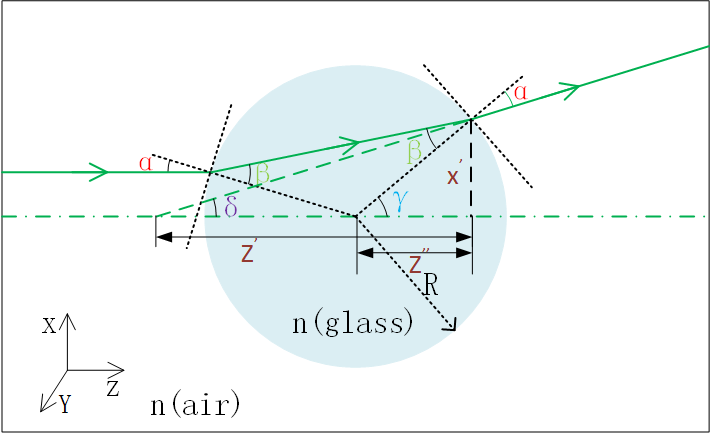
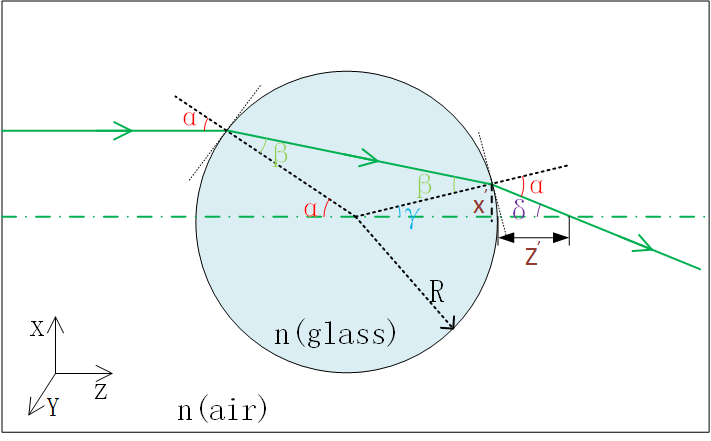
Update my model detail file.

diff --git a/7-Code/3-Code Model/reference/codeAndFigure/圆柱形玻璃/Schlieren.m b/7-Code/3-Code Model/reference/codeAndFigure/圆柱形玻璃/Schlieren.m
@@ -61,7 +61,7 @@ nair = 1.0002967;
 dglass = 1.6e-3;
 
 r = dglass / 2;
-% fglass = - (r * nglass) / ( 2 * (nair - nglass));
+% fglass = (r * nglass) / ( 2 * ( nglass - nair ));
 fglass = 62.5e-3;
 k = 2 * pi / lambda;
 

diff --git a/7-Code/3-Code Model/ModelDetails.md b/7-Code/3-Code Model/ModelDetails.md
@@ -1227,12 +1227,17 @@ $$
 ### Cylindrical glass focal length（圆柱形玻璃焦距）
 
 > 将圆柱形玻璃等效为近轴近似的透镜，求解其焦距表达式。
+>
+> 为了补充说明，推导了等离子体圆柱形的焦距，参见：[圆柱形等离子体焦距](#Cylindrical plasma focal length（圆柱形等离子体焦距）)。
 
 仿真的时候，需要设置**圆柱形玻璃的焦距**，此时可以重新将光线穿过圆柱形玻璃的情况绘制如下图所示：
 
 <img src="ModelDetails.assets/圆柱形玻璃光线传输示意图.png" alt="圆柱形玻璃光线传输示意图" style="zoom:80%;" />
 
 <center><font color="red">图28 圆柱形玻璃光线传输示意图</font><cebnter>
+>视觉角度：俯视图。
+>
+>图示：z轴正方向为光线传播方向，x轴正方向为世界坐标系的水平方向，y轴为世界坐标系的垂直方向。
 
 由于，我们假设的被测对象是圆柱形玻璃，那么其具有对称和均匀折射率等特性，圆柱可以等效为是近轴近似的透镜。
 
@@ -1244,7 +1249,7 @@ $$
 $$
 \alpha \cdot n(air) = \beta \cdot n(glass)
 $$
-其中，$\alpha$为与光轴平行的光线入射圆柱形玻璃的入射角，$\beta$为对应的出射角，$n(air)$ 环境中空气的折射率，$n(glass)$ 为圆柱形玻璃的折射率，其中 $n(air) \approx 1 > n(glass)$ 。
+其中，$\alpha$为与光轴平行的光线入射圆柱形玻璃的入射角，$\beta$为对应的出射角，$n(air)$ 环境中空气的折射率，$n(glass)$ 为圆柱形玻璃的折射率，其中 $n(air) \approx 1 < n(glass)$ 。
 
 从[格拉斯通-戴尔公式](#Gladstone-Dale Formula（格拉斯通-戴尔公式）) 中，可以知道标准状态下空气对可见光的折射率$n(air)$ 约为$1.0002967$ 。
 
@@ -1264,19 +1269,17 @@ $$
 
 根据三角形角度关系，可得出射玻璃柱的光线与主光轴的夹角 $\delta$ 为：
 $$
-\delta= 180^\circ - \alpha - (180^\circ - \gamma)= \gamma - \alpha= 2 \beta - 2 \alpha
+\delta= 180^\circ - \gamma - (180^\circ - \alpha)=  \alpha - \gamma = 2 \alpha - 2 \beta
 $$
 综上，可以得到 $\mathsf{Z}'$ 为：
 $$
-\mathsf{Z}' = \frac{\mathsf{X}'}{tan(\delta)}= \frac{\mathsf{R} \cdot \gamma}{\delta}= \frac{\mathsf{R} \cdot (2 \beta - \alpha)}{2 \beta - 2 \alpha}
-$$
-基于三角形关系，可以得到$\mathsf{Z}''$ 为：
-$$
-\mathsf{Z}''= \sqrt{\mathsf{R}^2 - (\mathsf{X}')^2}= \sqrt{\mathsf{R}^2 - ( \mathsf{R} \cdot \gamma)^2}= \mathsf{R} \sqrt{1 - \gamma^2}= \mathsf{R} \sqrt{1 - (2 \beta - \alpha)^2}
+\mathsf{Z}' = \frac{\mathsf{X}'}{tan(\delta)}= \frac{\mathsf{R} \cdot \gamma}{\delta}= \frac{\mathsf{R} \cdot (2 \beta - \alpha)}{2 \alpha - 2 \beta}
 $$
 将整个玻璃柱看成是一个透镜，可以得到其焦距 $f$ 相对于中心点为:
 $$
-f = \mathsf{Z}' - \mathsf{Z}''= \frac{\mathsf{R} \cdot (2 \beta - \alpha)}{2 \beta - 2 \alpha}  - \mathsf{R} \sqrt{1 - (2 \beta - \alpha)^2}
+f = \mathsf{Z}' + R = \frac{\mathsf{R} \cdot (2 \beta - \alpha)}{2 \alpha - 2 \beta}  - R
+\\
+= \frac{\mathsf{R} \cdot \alpha}{2 \alpha - 2 \beta}
 $$
 已知入射角$\alpha$，出射角$\beta$，空气的折射率$n(air)$ ，圆柱形玻璃的折射率$n(glass)$ 的关系式：
 $$
@@ -1288,7 +1291,87 @@ $$
 $$
 将其带入焦距 $f$ 的公式，得到：
 $$
-f = \frac{\mathsf{R} \cdot (2 n(air) - n(glass))}{2 n(air) - 2 n(glass)}  - \mathsf{R} \sqrt{1 - (2 \beta - \alpha)^2}
+f = \frac{\mathsf{R} \cdot  n(glass)}{2 n(glass) - 2 n(air)}
+$$
+其中，上式的变量空气的折射率$n(air)$ ，圆柱形玻璃的折射率$n(glass)$ ，圆柱形玻璃的半径R，都可以获得。
+
+所以，我们可以知道玻璃圆柱的焦距只取决于玻璃圆柱的折射率和直径。并且此时的**焦距是正数**，属于一个聚焦透镜，即凸透镜。
+
+由于玻璃圆柱并不是一个完美的透镜，实际实验中会观察到大量的**球面相差**。
+
+
+
+
+
+### Cylindrical plasma focal length（圆柱形等离子体焦距）
+
+> 本块内容做圆柱形玻璃焦距内容补充，主要想表达当光线穿过区域的折射率小于空气折射率的时候，对应的焦距表达方式。
+
+基于圆柱形等离子体的光线传播图进行相应的推导，如下图所示：
+
+<img src="ModelDetails.assets/圆柱形等离子体光线传输示意图.png" alt="圆柱形等离子体光线传输示意图" style="zoom:80%;" />
+
+<center><font color="red">图28 圆柱形等离子体光线传输示意图</font><cebnter>
+
+>视觉角度：俯视图。
+>
+>图示：z轴正方向为光线传播方向，x轴正方向为世界坐标系的水平方向，y轴为世界坐标系的垂直方向。
+
+由于，我们假设的被测对象是圆柱形等离子体，那么其具有对称和均匀折射率等特性，圆柱可以等效为是近轴近似的透镜。
+
+假设光线进入圆柱形等离子体的入射角度$\alpha$和出射角度$\beta$很小。根据折射定律：折射介质折射率与折射角正弦之积等于入射介质折射率与入射角正弦之积，得到:
+$$
+sin(\alpha) \cdot n(air) = sin(\beta) \cdot n(plasma)
+$$
+也即：
+$$
+\alpha \cdot n(air) = \beta \cdot n(plasma)
+$$
+其中，$\alpha$为与光轴平行的光线入射圆柱形等离子体的入射角，$\beta$为对应的出射角，$n(air)$ 环境中空气的折射率，$n(plasma)$ 为圆柱形等离子体的折射率，其中 $n(air) \approx 1 > n(plasma)$ 。
+
+从[格拉斯通-戴尔公式](#Gladstone-Dale Formula（格拉斯通-戴尔公式）) 中，可以知道标准状态下空气对可见光的折射率$n(air)$ 约为$1.0002967$ 。
+
+根据三角形角度关系，可得角度 $\gamma$ 为：
+$$
+\gamma = 180^\circ - \alpha - (180^\circ - 2 \beta)= 2 \beta - \alpha
+$$
+出射圆柱形等离子体的光线与玻璃柱的交点，距离主光轴的高度 $\mathsf{X}'$ 可以表示：
+$$
+\mathsf{X}' = \mathsf{R} \cdot tan(\gamma )
+$$
+当角度 $\gamma$ 很小的时候，高度 $\mathsf{X}'$ 为：
+$$
+\mathsf{X}' = \mathsf{R} \cdot \gamma
+$$
+其中，R为圆柱形等离子体的半径。
+
+根据三角形角度关系，可得出射等离子体柱的光线与主光轴的夹角 $\delta$ 为：
+$$
+\delta= 180^\circ - \alpha - (180^\circ - \gamma)= \gamma - \alpha= 2 \beta - 2 \alpha
+$$
+综上，可以得到 $\mathsf{Z}'$ 为：
+$$
+\mathsf{Z}' = \frac{\mathsf{X}'}{tan(\delta)}= \frac{\mathsf{R} \cdot \gamma}{\delta}= \frac{\mathsf{R} \cdot (2 \beta - \alpha)}{2 \beta - 2 \alpha}
+$$
+基于三角形关系，可以得到$\mathsf{Z}''$ 为：
+$$
+\mathsf{Z}''= \sqrt{\mathsf{R}^2 - (\mathsf{X}')^2}= \sqrt{\mathsf{R}^2 - ( \mathsf{R} \cdot \gamma)^2}= \mathsf{R} \sqrt{1 - \gamma^2}= \mathsf{R} \sqrt{1 - (2 \beta - \alpha)^2}
+$$
+将整个等离子体柱看成是一个透镜，可以得到其焦距 $f$ 相对于中心点为:
+$$
+f = \mathsf{Z}' - \mathsf{Z}''= \frac{\mathsf{R} \cdot (2 \beta - \alpha)}{2 \beta - 2 \alpha}  - \mathsf{R} \sqrt{1 - (2 \beta - \alpha)^2}
+$$
+已知入射角$\alpha$，出射角$\beta$，空气的折射率$n(air)$ ，圆柱形等离子体的折射率$n(plasma)$ 的关系式：
+$$
+\alpha \cdot n(air) = \beta \cdot n(plasma)
+$$
+写成分式形式：
+$$
+\frac{\alpha}{\beta}=\frac{n(plasma)}{ n(air)}
+$$
+将其带入焦距 $f$ 的公式，得到：
+$$
+f = \frac{\mathsf{R} \cdot (2 n(air) - n(plasma))}{2 n(air) - 2 n(plasma)}  - \mathsf{R} \sqrt{1 - (2 \beta - \alpha)^2}
 $$
 由[泰勒展开式线性近似理论](#Taylor's expansion linear approximation theory（泰勒展开式线性近似理论）)对应的**函数线性近似表达式**为：
 $$
@@ -1311,19 +1394,17 @@ $$
 
 所以，焦距 $f$ 的公式可以化简为：
 $$
-f = \frac{\mathsf{R} \cdot (2 n(air) - n(glass))}{2 n(air) - 2 n(glass)}  - \mathsf{R}
-\\ 
-= \frac{\mathsf{R}  n(glass)}{2 n(air) - 2 n(glass)}
-\\
-= \frac{\mathsf{R}  n(glass)}{2 (n(air) - n(glass))}
+f = \frac{\mathsf{R} \cdot (2 n(air) - n(plasma))}{2 n(air) - 2 n(plasma)}  - \mathsf{R}\\ = \frac{\mathsf{R}  n(plasma)}{2 n(air) - 2 n(plasma)}\\= \frac{\mathsf{R}  n(plasma)}{2 (n(air) - n(plasma))}
 $$
-其中，上式的变量空气的折射率$n(air)$ ，圆柱形玻璃的折射率$n(glass)$ ，圆柱形玻璃的半径R，都可以获得。
+其中，上式的变量空气的折射率$n(air)$ ，圆柱形等离子体的折射率$n(plasma)$ ，圆柱形等离子体的半径R，都可以获得。
 
-所以，我们可以知道玻璃圆柱的焦距只取决于玻璃圆柱的折射率和直径。并且此时的**焦距是负数**，属于一个发散透镜，即凹透镜。
+所以，我们可以知道等离子体圆柱的焦距只取决于等离子体圆柱的折射率和直径。并且此时的**焦距是负数**，属于一个发散透镜，即凹透镜。
 
 注：在计算的时候我们需要保证计算出来的焦距是一个正数，方便进行仿真计算。
 
-由于玻璃圆柱并不是一个完美的透镜，实际实验中会观察到大量的**球面相差**。
+由于等离子体圆柱并不是一个完美的透镜，实际实验中会观察到大量的**球面相差**。
+
+
 
 
 
@@ -1335,7 +1416,7 @@ $$
 
 基于 [圆柱形玻璃焦距](#Cylindrical glass focal length（圆柱形玻璃焦距）) ，得到**圆柱形玻璃的焦距公式**为：
 $$
-f = \frac{\mathsf{R}  n(glass)}{2 (n(air) - n(glass))}
+f = \frac{\mathsf{R} \cdot  n(glass)}{2 n(glass) - 2 n(air)}
 $$
 其中，$n(air)$ 环境中空气的折射率，$n(glass)$ 为圆柱形玻璃的折射率，R是圆柱形玻璃的半径。
 
@@ -1343,13 +1424,69 @@ $$
 $$
 f = 1.2 mm
 $$
-其圆柱形玻璃的半径与[圆柱形等离子体](#Plasma Cylinder（圆柱形等离子体）) 的半径相等，但是圆柱形玻璃的焦距比圆柱形等离子体的焦距小很多。
+其圆柱形玻璃的半径与[圆柱形等离子体](#Plasma Cylinder（圆柱形等离子体）) 的半径相等，但是圆柱形玻璃的焦距比圆柱形等离子体的焦距小很多，并不适合作为我们的实验目标。
 
 所以我们可以使用一个厚度远远小于其外径的玻璃管作为测试对象，得到示意图如下所示：
 
-
+<img src="ModelDetails.assets/毛细血管形玻璃管光线传播示意图.png" alt="毛细血管形玻璃管光线传播示意图" style="zoom:80%;" />
 
 <center><font color="red">图28 毛细血管形玻璃管光线传播示意图</font><cebnter>
+
+>视觉角度：俯视图。
+>
+>图示：z轴正方向为光线传播方向，x轴正方向为世界坐标系的水平方向，y轴为世界坐标系的垂直方向。
+
+上图显示的是玻璃管中光线的示意图，其中玻璃管的内外直径之间满足下面的关系：
+$$
+r_{big} \gg r_{big} - r_{small}
+$$
+当光线经过玻璃管之后，光线拥有一个发散的角度，从图上可以看到角度的关系有：
+$$
+\beta < a'
+$$
+其中， $\beta$ 是光线入射到玻璃管之后的折射角， $a'$ 是玻璃管壁中的光线入射进玻璃管中的入射角度。
+
+所以，我们可以得到光线在玻璃管内传播并不是平行光，而是一个发散的，在最终出射玻璃管之后，一定是一个发散的，那么我们的玻璃管就等效为一个凹透镜，最终的光线会散焦。
+
+由于直接使用光线的几何方式计算，只会越计算越复杂，类似于相机的发散镜头设计，我们将整个玻璃管分成为两半，这两部分由两个玻璃透镜组成，其中两个透镜之间的距离假设为 $s = 2 * r_{small}$ ，从[透镜制造方程](#Lensmaker's Equation（透镜制造方程）) 中，我们可以得到分成两部分透镜的焦距表达式：
+$$
+\frac{1}{f}
+\approx 
+(n-1)[\frac{1}{R_1} - \frac{1}{R_2} ]
+$$
+可以将两个透镜组成一个**相对较薄的光学系统**，表达式如下所示：
+$$
+\frac{1}{f_{res}} =
+\frac{1}{f_1} + \frac{1}{f_2}
+- \frac{f_1 + f_2 - s}{f_1 f_2}
+$$
+其中， $f_{res}$ 表示光学系统的焦距，$f_1$ 表示左半部分焦距，$f_2$ 表示右半部分焦距。
+
+其中，左半部分和右半部分的焦距表示为：
+$$
+\frac{1}{f_1}
+=
+(n-1)[\frac{1}{r_{big}} - \frac{1}{r_{small}} ]
+
+\\
+
+\frac{1}{f_2}
+=
+-(n-1)[\frac{1}{r_{big}} - \frac{1}{r_{small}} ]
+$$
+所以，可以得到 $f_{res}$ 为：
+$$
+f_{res} 
+= \frac{f_1^2}{2 * f_1 - s}
+= \frac{f_1^2}{2 * f_1 - 2 * r_{small}}
+$$
+此时的焦距比圆柱形玻璃的焦距长很多，更适合作为实验的目标。
+
+
+
+
+
+
 
 
 
@@ -2604,7 +2741,7 @@ z = 100e-3;  % 透镜的焦距（假设的是相平面刚好在焦平面上）
 
 基于 [圆柱形玻璃焦距](#Cylindrical glass focal length（圆柱形玻璃焦距）) ，得到**圆柱形玻璃的焦距公式**为：
 $$
-f = \frac{\mathsf{R}  n(glass)}{2 (n(air) - n(glass))}
+f = \frac{\mathsf{R} \cdot  n(glass)}{2 n(glass) - 2 n(air)}
 $$
 其中，$n(air)$ 环境中空气的折射率，$n(glass)$ 为圆柱形玻璃的折射率，R是圆柱形玻璃的半径。
 
@@ -2762,7 +2899,7 @@ $$
   dglass = 1.6e-3;
   
   r = dglass / 2;
-  % fglass = - (r * nglass) / ( 2 * (nair - nglass));
+  % fglass = (r * nglass) / ( 2 * ( nglass - nair ));
   fglass = 62.5e-3;
   k = 2 * pi / lambda;
   
